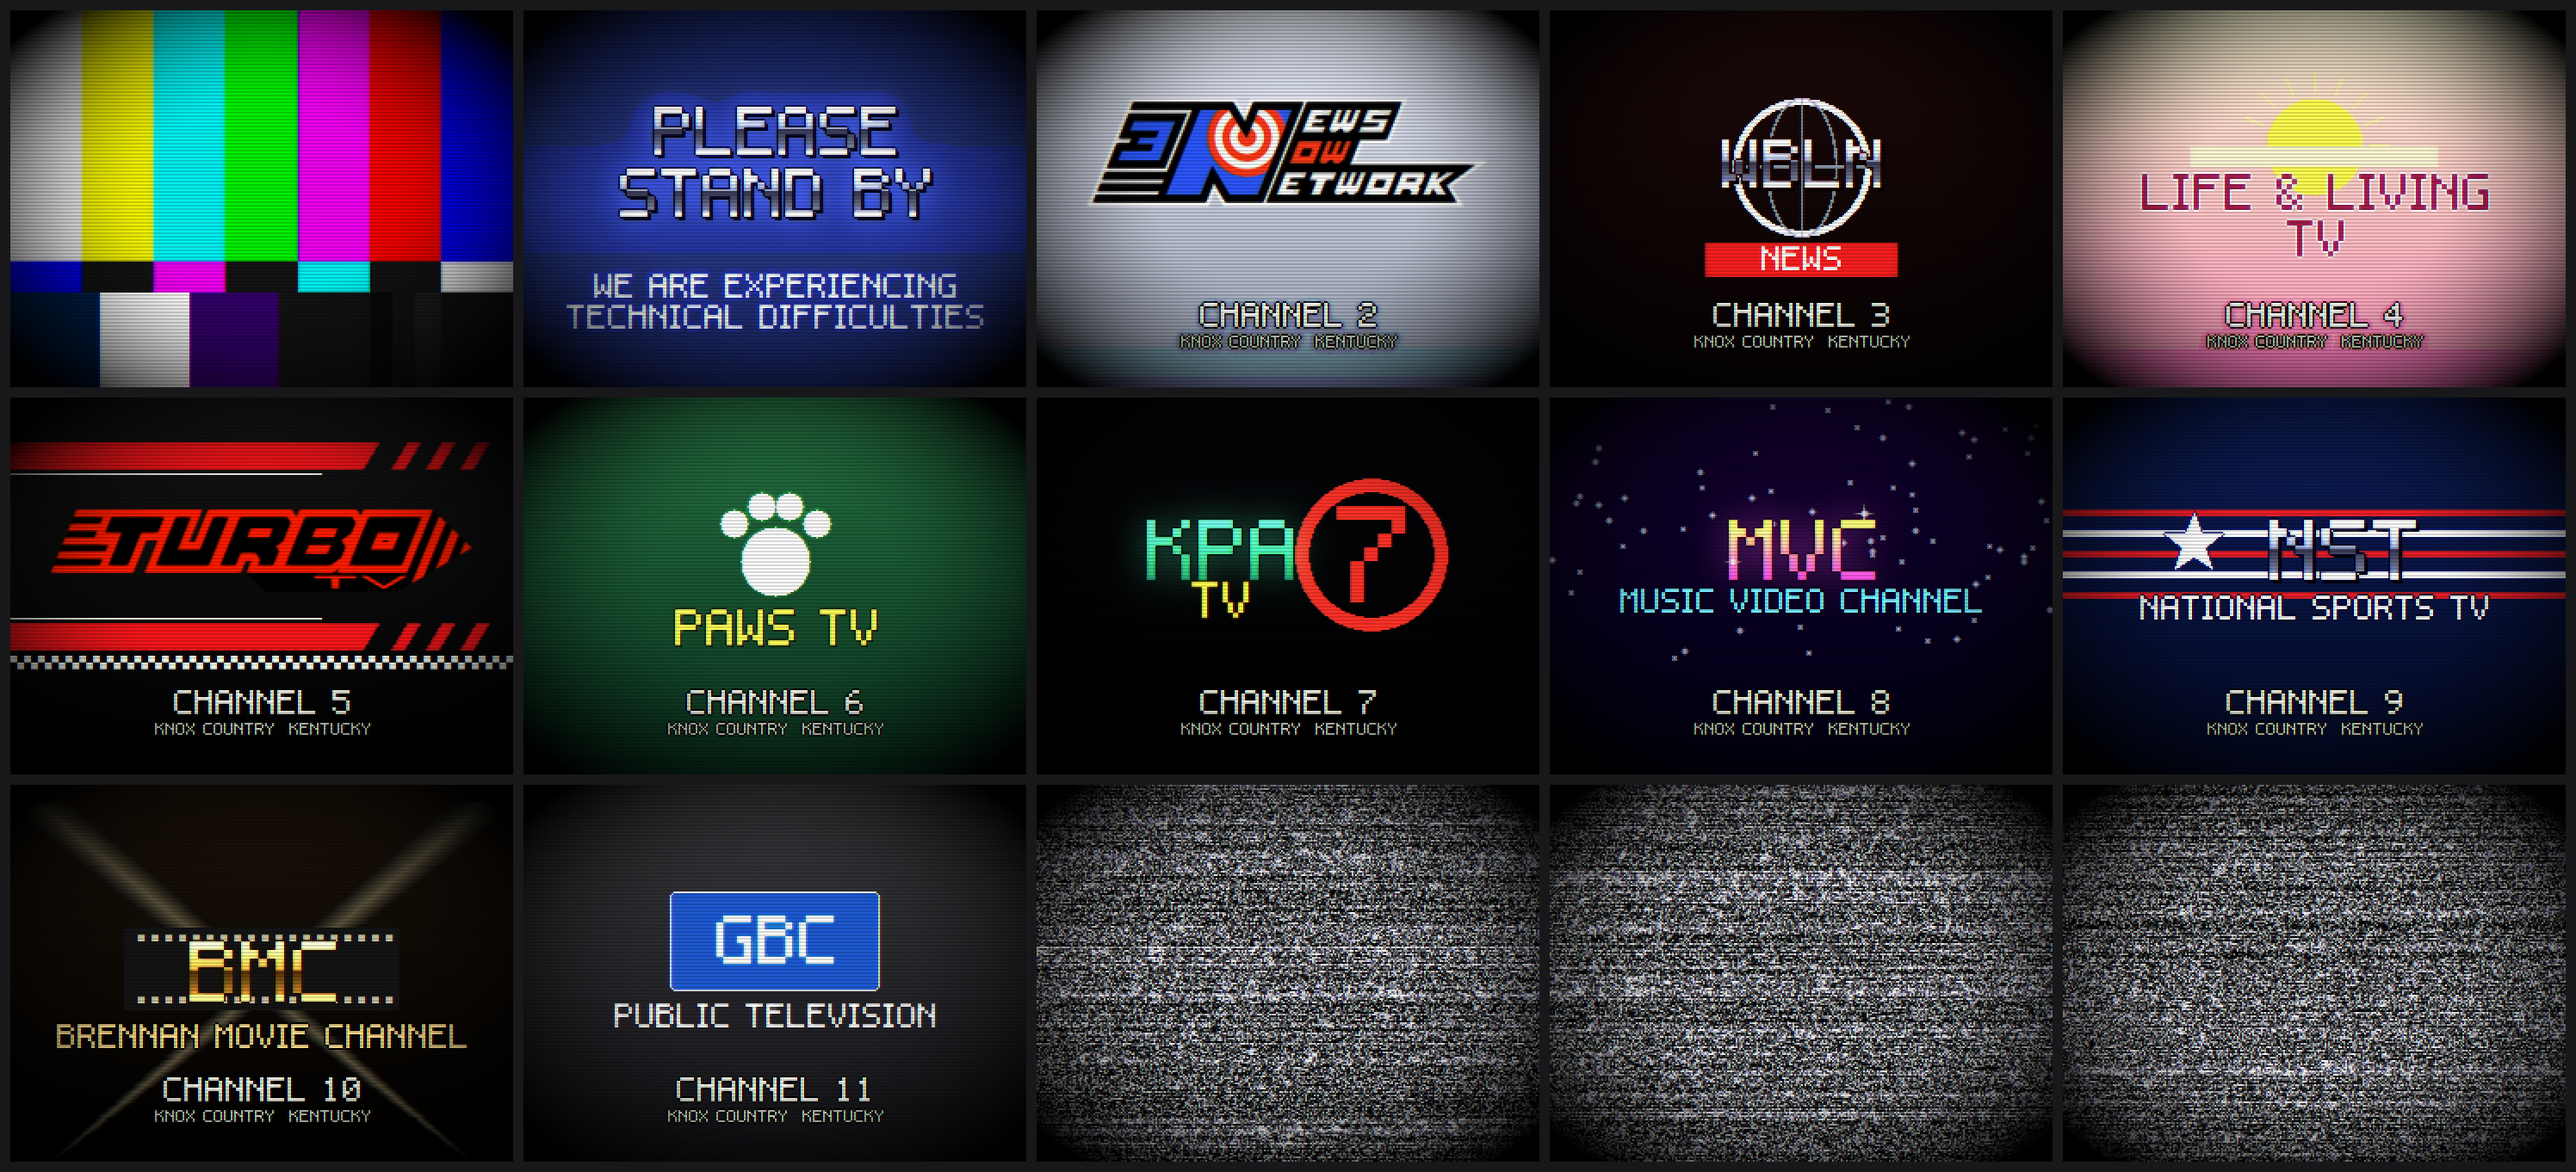
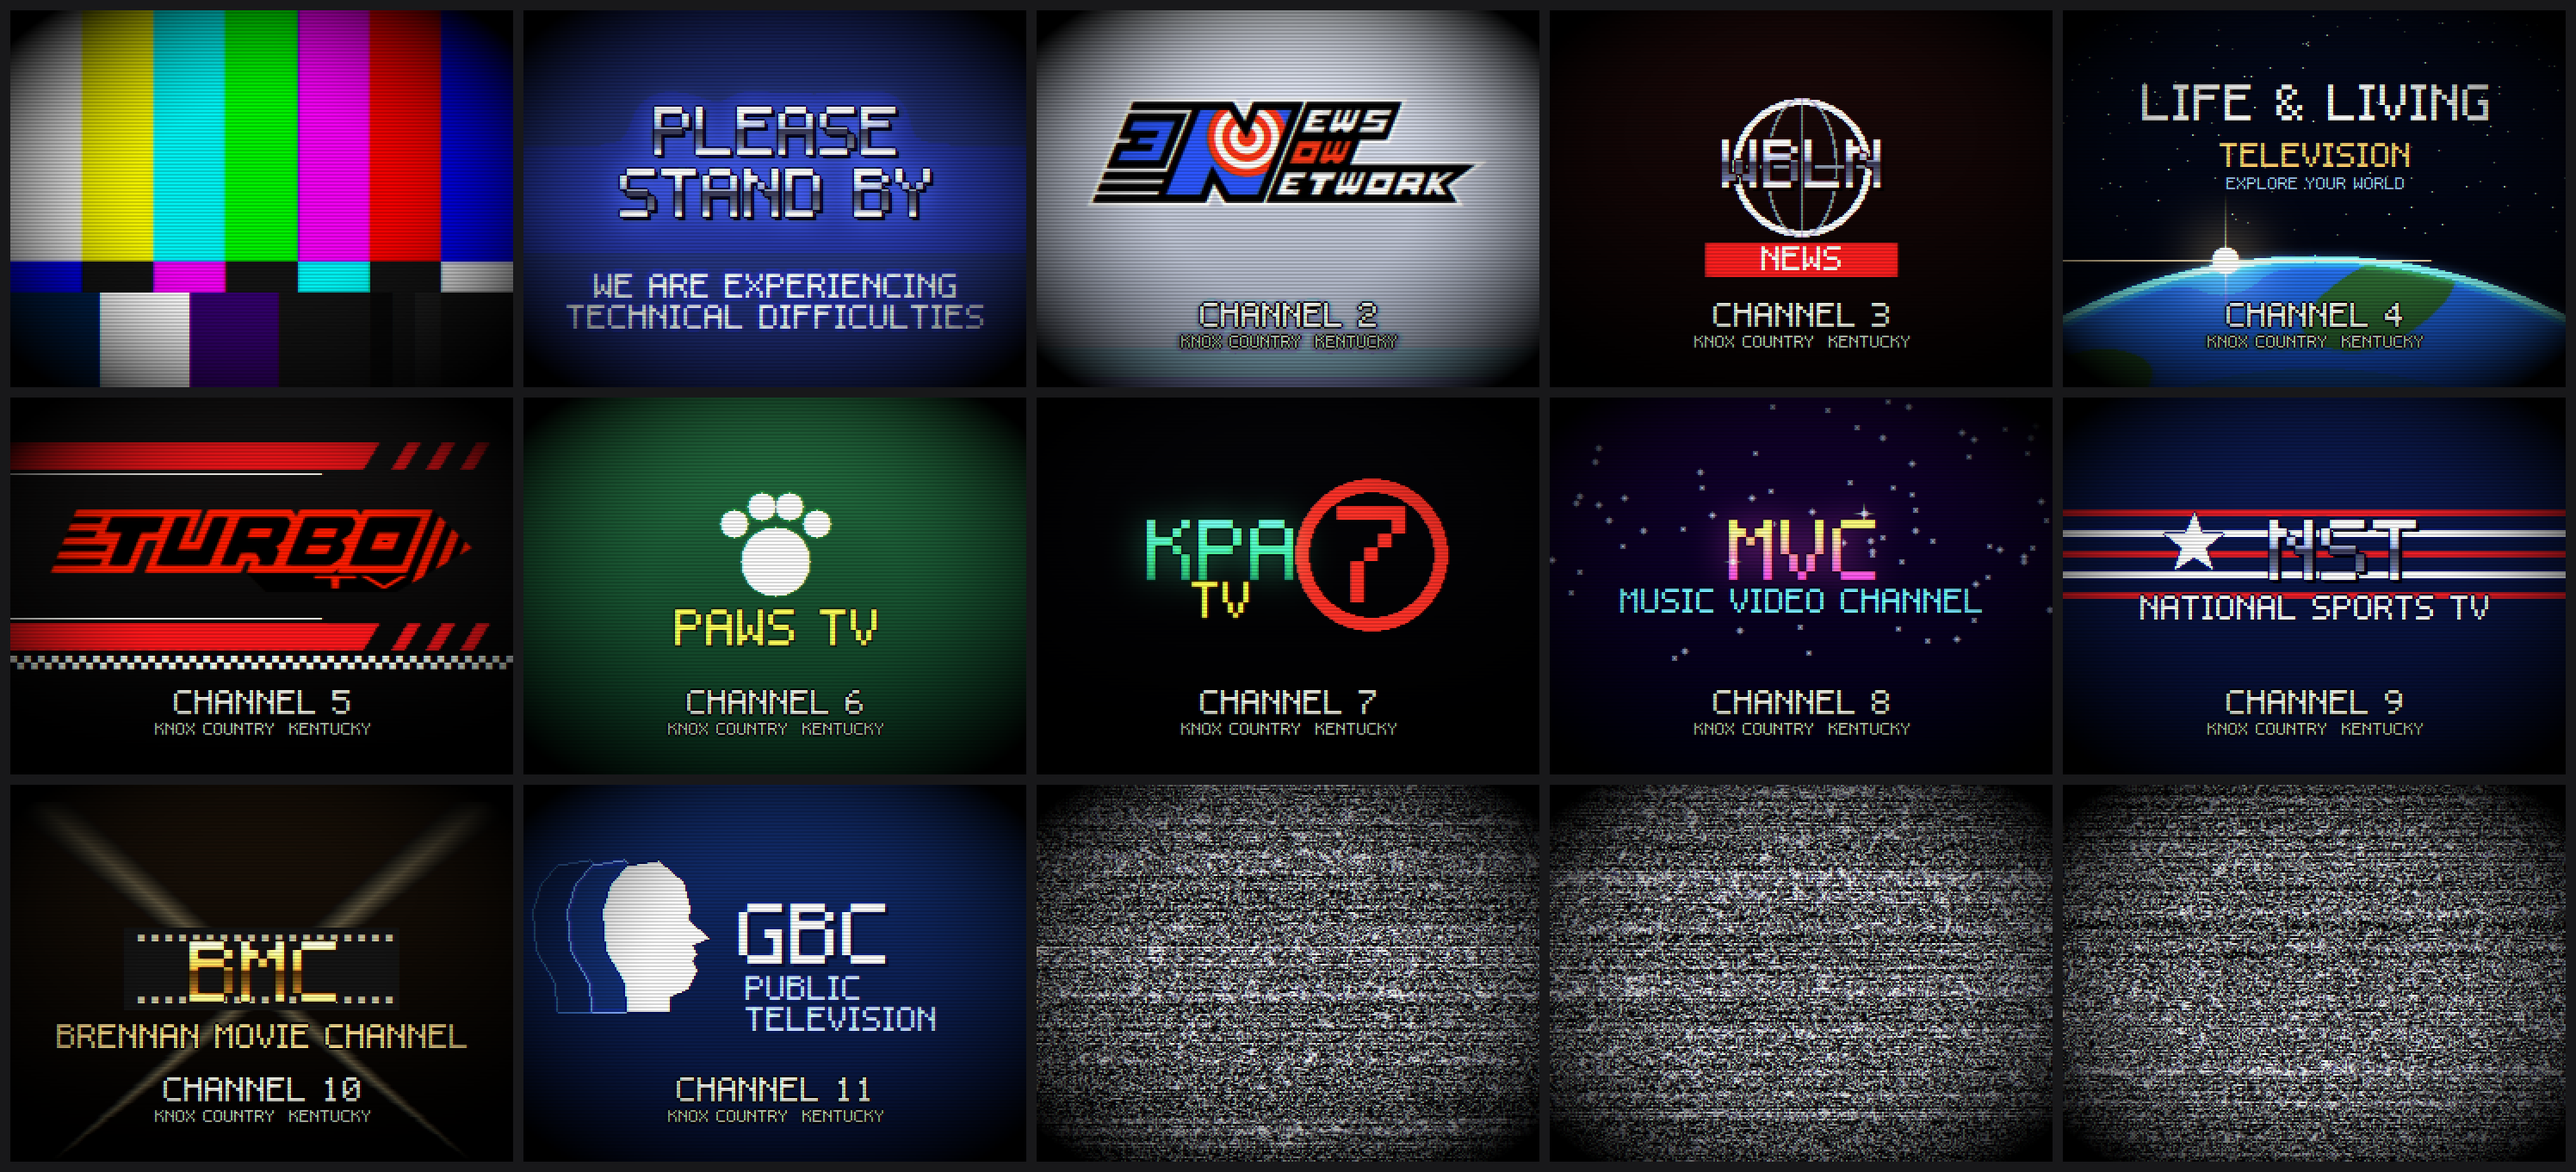
Design: Life and Living card as an old learning channel
Director: like the learning and discovery channels in their old format, before
reality TV. The earth's rim from space with the sun cresting it, the name over the
dark, TELEVISION and a tagline (EXPLORE YOUR WORLD).

Claude-Session: https://claude.ai/code/session_015Lv8fXDH1kuxg46sEw6iLh

Changed region(s): [[0.7771, 0.0, 1.0, 0.3392], [0.1865, 0.6476, 0.4041, 0.9559]]

diff --git a/ZeDUI/tools/physpx/offair.py b/ZeDUI/tools/physpx/offair.py
@@ -248,17 +248,35 @@ def signoff(cid, w, h):
         rect(a, cx - 14 * s, cy + r + s, 28 * s, 8 * max(1, s // 2) + 4, (200, 30, 30))
         text(a, "NEWS", cx, cy + r + s + 2, max(1, s // 2), (255, 255, 255))
     elif cid == "life":
-        a = card_frame(w, h, (250, 200, 170), (200, 120, 150))
-        r = int(7 * s)
-        put(a, disc_mask(r), cx - r, cy - 3 * s - r, (255, 210, 80))                      # a rising sun with its rays
-        for k in range(9):
-            ang = math.pi + k * math.pi / 8
-            for t in range(r + s, r + 4 * s):
-                x = int(cx + math.cos(ang) * t); y = int(cy - 3 * s + math.sin(ang) * t)
-                if 0 <= x < w and 0 <= y < h: a[y, x] = np.array((255, 230, 120), np.float32) / 255
-        rect(a, cx - 18 * s, cy - 3 * s, 36 * s, 3 * s, (250, 200, 170))
-        text(a, "LIFE & LIVING", cx, cy + s, max(1, s - 1), (120, 30, 70), outline=(255, 240, 230))
-        text(a, "TV", cx, cy + s + 9 * max(1, s - 1), max(1, s - 1), (120, 30, 70), outline=(255, 240, 230))
+        # the learning channels before reality TV (director, Oct 30 2026: "kinda like the TLC or Discover channel in
+        # their old format"): the earth's rim seen from space, the sun cresting it, the name over the dark, a tagline
+        a = card_frame(w, h, (4, 10, 30), (0, 2, 10))
+        rng = np.random.default_rng(11)
+        for _ in range(int(w * h / 500)):                                  # the stars
+            x, y = int(rng.integers(0, w)), int(rng.integers(0, int(h * 0.6)))
+            a[y, x] = np.array((1, 1, 1), np.float32) * float(rng.uniform(0.3, 0.9))
+        R = int(w * 1.1)                                                   # the planet: a huge disc, only its top shows
+        pcx, pcy = cx, int(h * 0.66) + R
+        yy, xx = np.mgrid[0:h, 0:w]
+        d = np.sqrt((xx - pcx) ** 2 + (yy - pcy) ** 2)
+        body = d <= R
+        k = np.clip((R - d) / (h * 0.35), 0, 1)
+        sea = np.stack([0.05 + 0.10 * (1 - k), 0.20 + 0.25 * (1 - k), 0.45 + 0.30 * (1 - k)], -1)
+        land = (np.sin(xx / (7.0 * s) + 1.3) + np.sin(yy / (4.0 * s) + xx / (13.0 * s)) > 1.0) & body
+        a[body] = sea[body]
+        a[land] = (np.array((0.18, 0.42, 0.20)) * (0.6 + 0.4 * (1 - k[..., None])))[land]
+        rim = (d > R - 2) & (d <= R + 2)                                   # the atmosphere's thin bright edge
+        a[rim] = np.maximum(a[rim], np.array((0.45, 0.80, 1.0), np.float32))
+        add_glow(a, rim, 0, 0, (90, 170, 255), radius=3, amount=0.5)
+        sx, sy = cx - int(w * 0.18), int(h * 0.66) + 1                     # the sun just over the rim, its flare
+        add_glow(a, disc_mask(3 * s), sx - 3 * s, sy - 3 * s, (255, 220, 140), radius=4 * s, amount=1.0)
+        put(a, disc_mask(2 * s), sx - 2 * s, sy - 2 * s, (255, 250, 230))
+        glint(a, sx, sy, n=10 * s, rgb=(255, 240, 200))
+        rect(a, sx - 30 * s, sy, 60 * s, 1, (255, 230, 180))
+        ts = s if glyph_mask("LIFE & LIVING", "57", s).shape[1] <= w * 0.86 else s - 1      # the title keeps a margin
+        text(a, "LIFE & LIVING", cx, int(h * 0.20), ts, (255, 255, 255), shadow=(0, 0, 0))
+        text(a, "TELEVISION", cx, int(h * 0.20) + 8 * s + 2, max(1, s // 2), (255, 205, 110))
+        text(a, "EXPLORE YOUR WORLD", cx, int(h * 0.20) + 8 * s + 4 + 9 * max(1, s // 2), 1, (160, 200, 255))
     elif cid == "turbo":
         # the car shows' look of the day (director, Oct 30 2026: "like motor trend from the day. black and red"): a black
         # set, a slanted red racing band above and below the name with a white pinstripe, the band's end cut in speed
@@ -342,14 +360,29 @@ def signoff(cid, w, h):
         text(a, "BMC", cx, cy, s + 1, chrome((255, 245, 200), (220, 170, 60), (90, 50, 10), (255, 230, 150)), outline=(30, 15, 0))
         text(a, "BRENNAN MOVIE CHANNEL", cx, cy + 12 * s, max(1, s // 2), (240, 210, 140), outline=(0, 0, 0))
     elif cid == "gbc":
-        a = card_frame(w, h, (60, 60, 64), (20, 20, 24))
-        bw, bh = 30 * s, 14 * s
-        m = np.zeros((bh, bw), bool); m[:] = True
-        m[0, 0] = m[0, -1] = m[-1, 0] = m[-1, -1] = False
-        put(a, grow(pad_to(m, 1), 1), cx - bw // 2 - 1, cy - bh // 2 - 1, (240, 240, 240))
-        put(a, m, cx - bw // 2, cy - bh // 2, (30, 90, 170))
-        text(a, "GBC", cx, cy - 7 * s // 2 - 1, s, (255, 255, 255))
-        text(a, "PUBLIC TELEVISION", cx, cy + bh // 2 + 2 * s, max(1, s // 2), (230, 230, 230))
+        # public television (director, Oct 30 2026: "a head profile that hints at the old PBS logo"): a face in profile,
+        # looking right, with two echoes of it stepping back behind it, beside the name
+        a = card_frame(w, h, (20, 50, 120), (6, 16, 50))
+        HEAD = [(0.30, 0.04), (0.56, 0.00), (0.76, 0.14), (0.82, 0.32), (0.80, 0.40), (0.98, 0.52), (0.84, 0.57),
+                (0.88, 0.63), (0.83, 0.67), (0.87, 0.73), (0.80, 0.86), (0.64, 0.91), (0.64, 1.00), (0.30, 1.00),
+                (0.28, 0.82), (0.12, 0.60), (0.10, 0.34), (0.16, 0.16)]
+        hh = int(h * 0.40); hw = int(hh * 0.80)
+        hx = cx - int(hw * 1.55); hy = cy - hh // 2 - s
+        for k, col in ((2, (60, 110, 190)), (1, (130, 170, 230)), (0, (250, 250, 250))):
+            im = Image.new("L", (hw + 2, hh + 2), 0)
+            ImageDraw.Draw(im).polygon([(x * hw, y * hh) for x, y in HEAD], fill=255)
+            m = np.asarray(im) > 127
+            ox = hx - k * int(hw * 0.30)
+            if k:                                                          # an echo: an outline behind
+                put(a, grow(pad_to(m, 1), 1), ox - 1, hy - 1, col)
+                put(a, m, ox, hy, (20, 50, 120) if k == 1 else (14, 36, 90))
+            else:
+                put(a, grow(pad_to(m, 1), 1), ox - 1, hy - 1, (6, 16, 50))
+                put(a, m, ox, hy, col)
+        gx = hx + hw + 4 * s
+        text(a, "GBC", gx, cy - 7 * s // 2 - 2 * s, s + 1, (255, 255, 255), align="l", shadow=(6, 16, 50))
+        text(a, "PUBLIC", gx + s, cy + 5 * s, max(1, s // 2), (200, 220, 255), align="l")
+        text(a, "TELEVISION", gx + s, cy + 5 * s + 9 * max(1, s // 2), max(1, s // 2), (200, 220, 255), align="l")
     footer(a, w, h, ch, s)
     return a
 
